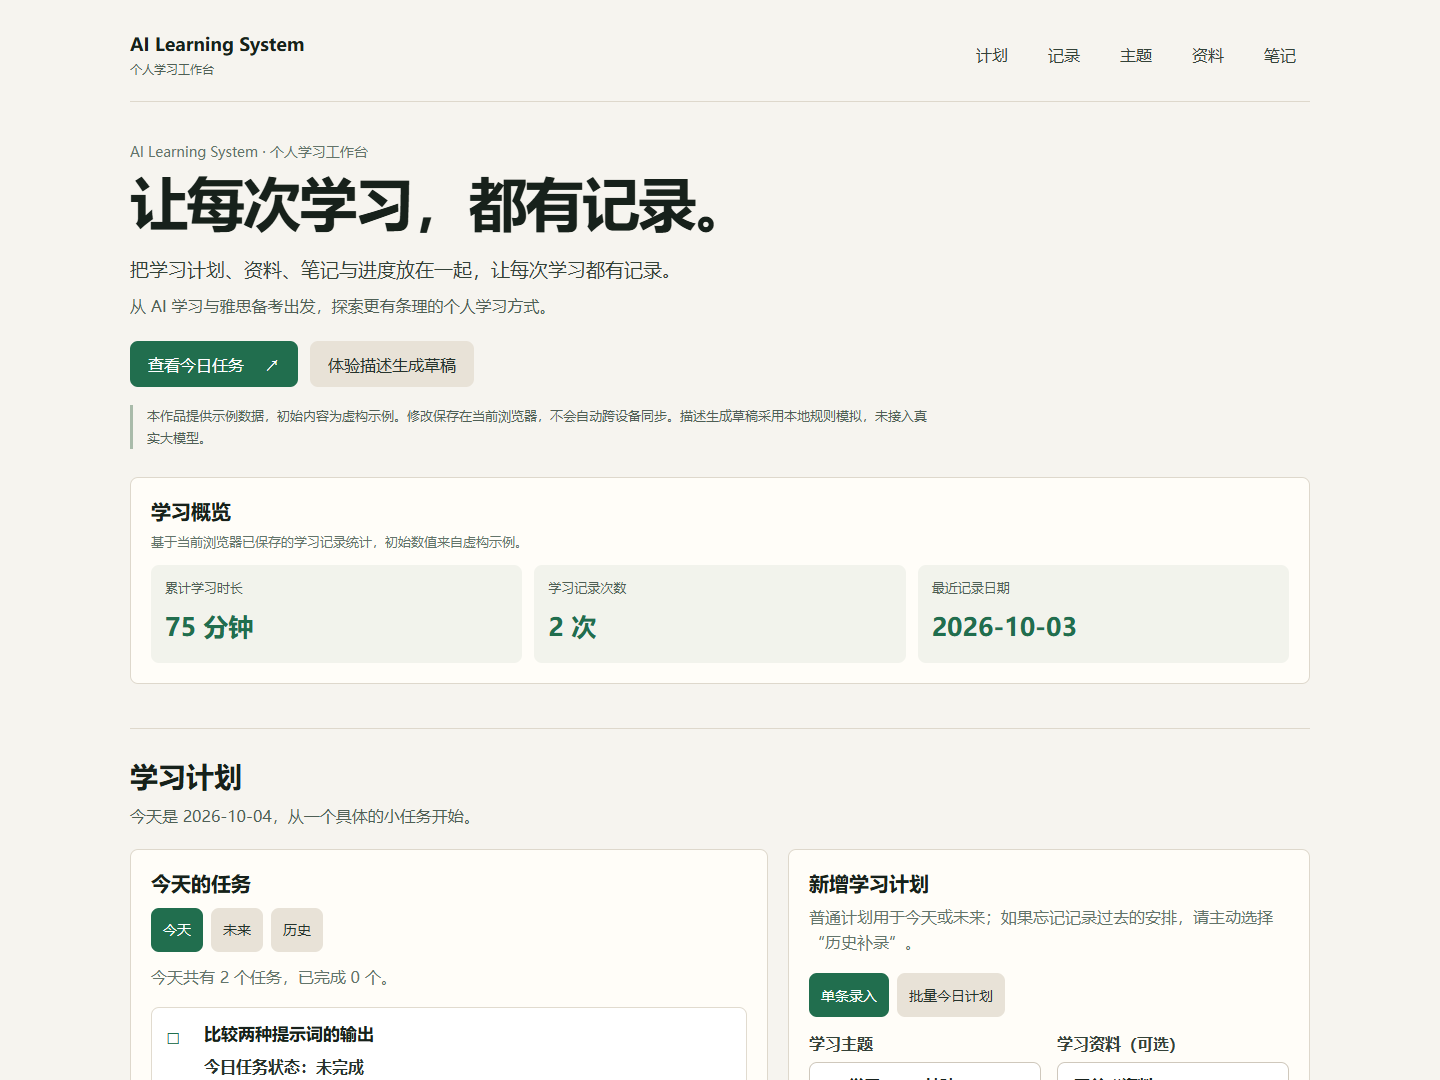
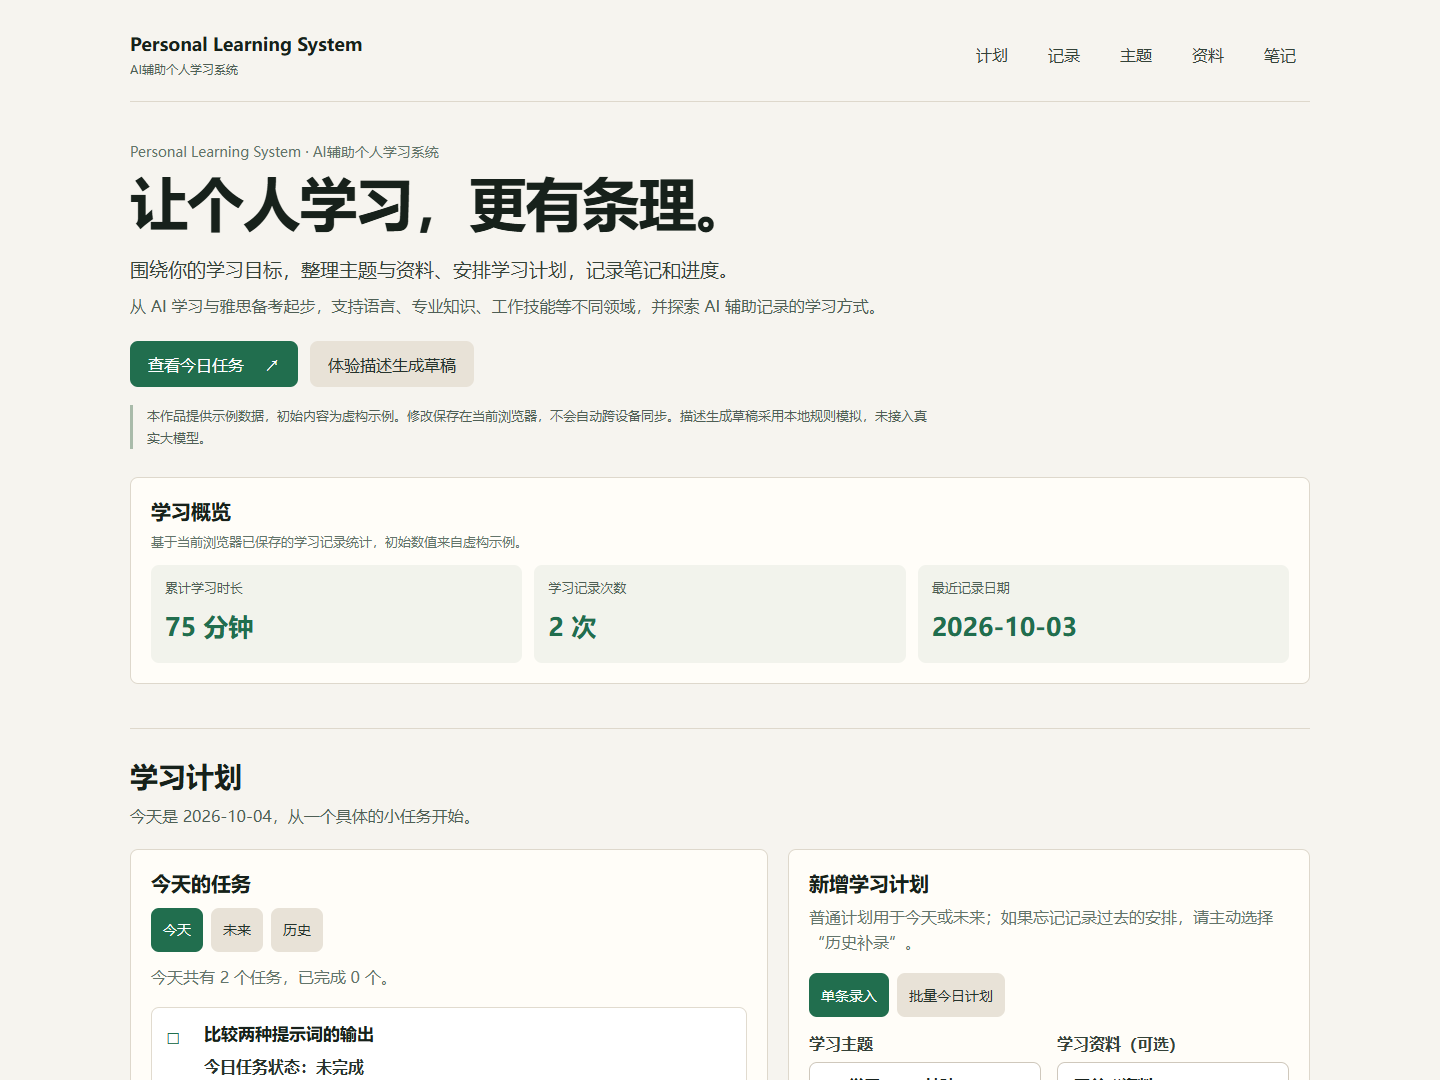
Clarify Personal Learning System positioning

diff --git a/index.html b/index.html
@@ -3,23 +3,23 @@
   <head>
     <meta charset="UTF-8" />
     <meta name="viewport" content="width=device-width, initial-scale=1.0" />
-    <title>AI Learning System · 个人学习工作台</title>
-    <meta name="description" content="把学习计划、资料、笔记与进度放在一起的个人学习工作台。提供虚构示例和本地规则模拟的描述生成草稿体验。" />
+    <title>Personal Learning System（AI辅助个人学习系统）</title>
+    <meta name="description" content="Personal Learning System（AI辅助个人学习系统），面向不同领域的个人学习，整理主题、资料、计划、笔记和学习记录。AI辅助记录目前采用本地规则模拟。" />
     <link rel="stylesheet" href="src/styles.css" />
   </head>
   <body>
     <main class="app-shell">
 <header class="site-header">
-  <a class="brand" href="#home">AI Learning System<span>个人学习工作台</span></a>
+  <a class="brand" href="#home">Personal Learning System<span>AI辅助个人学习系统</span></a>
   <nav class="site-nav" aria-label="工作台导航">
     <a href="#plans">计划</a><a href="#records">记录</a><a href="#topics">主题</a><a href="#resources">资料</a><a href="#notes">笔记</a>
   </nav>
 </header>
 <section id="home" class="hero" aria-labelledby="heroTitle">
-  <p class="eyebrow">AI Learning System · 个人学习工作台</p>
-  <h1 id="heroTitle">让每次学习，<br />都有记录。</h1>
-  <p class="hero-description">把学习计划、资料、笔记与进度放在一起，让每次学习都有记录。</p>
-  <p class="hero-context">从 AI 学习与雅思备考出发，探索更有条理的个人学习方式。</p>
+  <p class="eyebrow">Personal Learning System · AI辅助个人学习系统</p>
+  <h1 id="heroTitle">让个人学习，<br />更有条理。</h1>
+  <p class="hero-description">围绕你的学习目标，整理主题与资料、安排学习计划，记录笔记和进度。</p>
+  <p class="hero-context">从 AI 学习与雅思备考起步，支持语言、专业知识、工作技能等不同领域，并探索 AI 辅助记录的学习方式。</p>
   <div class="hero-actions"><a class="primary-button" href="#plans">查看今日任务 <span aria-hidden="true">↗</span></a><a class="secondary-button" href="#aiProgressPanel">体验描述生成草稿</a></div>
   <p class="demo-notice">本作品提供示例数据，初始内容为虚构示例。修改保存在当前浏览器，不会自动跨设备同步。描述生成草稿采用本地规则模拟，未接入真实大模型。</p>
   <p id="demoStorageNotice" class="form-message is-error hidden" role="alert">浏览器存储不可用，示例数据未能完整载入。请允许本站使用本地存储后刷新；保存失败时，请保留输入内容。</p>
@@ -436,7 +436,7 @@
       </section>
 </section>
 
-<footer class="site-footer"><span>AI Learning System · 个人学习工作台</span><p>数据保存在当前浏览器，清理浏览器数据可能丢失记录。描述生成草稿采用本地规则模拟，未接入真实大模型。</p></footer>
+<footer class="site-footer"><span>Personal Learning System · AI辅助个人学习系统</span><p>数据保存在当前浏览器，清理浏览器数据可能丢失记录。描述生成草稿采用本地规则模拟，未接入真实大模型。</p></footer>
 </main>
 
     <script src="src/data-model.js"></script>

diff --git a/README.md b/README.md
@@ -1,8 +1,8 @@
-# AI Learning System · 个人学习工作台
+# Personal Learning System（AI辅助个人学习系统）
 
-把学习计划、资料、笔记与进度放在一起，让每次学习都有记录。
+围绕你的学习目标，整理主题与资料、安排学习计划，记录笔记和进度。
 
-这是一个可以直接操作的个人学习工作台作品，围绕 AI 学习与雅思备考组织学习过程。应用使用 HTML、CSS 和 JavaScript，数据保存在当前浏览器。
+这是一个面向不同学习领域的个人学习工作台，支持语言学习、专业知识、工作技能等个人学习目标。项目从 AI 学习与雅思备考起步，逐步演变为通用个人学习系统；AI 辅助记录是持续探索的特色。应用使用 HTML、CSS 和 JavaScript，数据保存在当前浏览器。
 
 > 初始内容为虚构示例。描述生成草稿采用本地规则模拟，未接入真实大模型；本项目不提供登录和云同步。
 
@@ -10,11 +10,11 @@
 
 首页工作台：简短介绍、已有学习概览和今日任务。
 
-![公开展示版首页，展示虚构示例的 75 分钟与 2 条学习记录](docs/images/showcase-home.png)
+![Personal Learning System 首页，展示虚构示例的 75 分钟与 2 条学习记录](docs/images/showcase-home.png)
 
 描述生成草稿：识别多个学习主题，逐条检查后再保存。
 
-![本地规则生成的两条待确认学习草稿](docs/images/showcase-drafts.png)
+![Personal Learning System 中通过本地规则生成的两条待确认学习草稿](docs/images/showcase-drafts.png)
 
 截图使用独立测试环境中的虚构示例数据。截图日期仅代表拍摄时的示例日期。
 
@@ -22,7 +22,7 @@
 
 同时学习 AI 与雅思时，学习资料、当天计划和实际学习记录容易分散：收藏了资料，却不知道今天应该完成哪一部分；花了时间学习，却没有留下可回看的过程。
 
-这是我的第一个 Codex 项目。从自己的学习需求出发，逐步建立主题、资料、计划、笔记和学习记录之间的关联，并探索“描述一次学习，确认后再保存”的记录方式。
+这是我的第一个 Codex 项目。从自己的学习需求出发，逐步建立主题、资料、计划、笔记和学习记录之间的关联。随着自定义学习方向等能力完善，项目已经拓展为服务不同领域的个人学习系统。AI 学习是项目的起点，“描述一次学习，确认后再保存”是 AI 辅助记录的探索方向；当前的 AI 与雅思内容用于示例体验，用户可以建立自己的学习方向。
 
 ## 已实现的能力
 

diff --git a/docs/project-status.md b/docs/project-status.md
@@ -1,4 +1,12 @@
-# Personal Learning System 项目状态
+# Personal Learning System（AI辅助个人学习系统）项目状态
+
+## 2026-10-04：公开展示定位统一
+
+产品名称统一为 **Personal Learning System（AI辅助个人学习系统）**，面向语言、专业知识、工作技能等不同领域的个人学习目标。AI 学习与雅思备考是项目起点及当前示例场景；AI 辅助记录是项目特色，现阶段通过本地规则模拟生成待确认草稿。
+
+本次仅更新产品名称、首页标题与介绍、README 项目描述、本状态文档和真实页面截图。核心功能、代码结构、数据结构、存储键、AI 服务接口及示例数据保持原样。仓库与目录仍沿用历史名称 `AI-Learning-System`。
+
+验证：本次展示页面回归 4/4 通过，0 失败、0 跳过，覆盖页内导航、草稿保存、已有数据保护和 390px 无横向溢出。首页及草稿截图已重新生成；草稿区域没有产品名称变更，截图内容保持一致。本次变更将与阶段文档一并进行本地 Git 保存，未推送或公开发布。
 
 ## 2026-10-04：公开作品展示版
 
@@ -30,12 +38,12 @@
 
 ## 项目定位
 
-Personal Learning System（个人学习系统）
+Personal Learning System（AI辅助个人学习系统）
 
 目标：
-建立一个个人学习工作台，记录学习主题、资料、计划、笔记和进度，为未来 AI 辅助学习提供数据基础。
+建立面向不同领域的个人学习工作台，记录学习主题、资料、计划、笔记和进度，并探索 AI 辅助记录的学习方式。
 
-当前学习方向：
+当前示例学习方向（用户可新增其他方向）：
 - AI学习
 - 雅思英语学习
 
